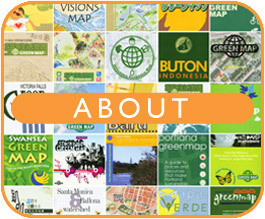
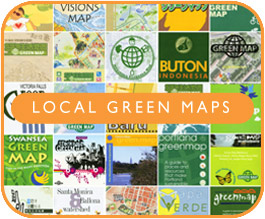
Moving back to an old version of the front page style and images

Changed region(s): [[0.1208, 0.4384, 0.8755, 0.5479]]

diff --git a/index.css b/index.css
@@ -23,9 +23,10 @@ margin: 0 0 0 0;
 /* HEADER */ 
 	
 #top {
+	background-image:url("img2/ie_top.png");
 	background-repeat: no-repeat;
 	padding-bottom: 30px;
-  	margin: 0 0 0 44px;
+  	margin: 0 0 0 30px;
   	height: 100px;
   	width: 100%;
 }	
@@ -64,7 +65,7 @@ div.gm {
   height: 220px;
   width: 264px;
   float: left;
-  background:url("img2/ogm_off.jpg") center top no-repeat;
+  background:url("img2/gm_off.jpg") center top no-repeat;
   padding-top: -5px;
   padding-bottom: 0px;
   padding-left: 0px;
@@ -77,7 +78,7 @@ div.gm:hover {
   height: 220px;
   width: 264px;
   padding-right: 0px;
-  background:url("img2/ogm_on.jpg") no-repeat center top;
+  background:url("img2/gm_on.jpg") no-repeat center top;
   text-decoration: none;
 }
 
@@ -113,7 +114,7 @@ div.ogm {
   height: 220px;
   width: 264px;
   float: none;
-  background:url("img2/gm_off.jpg") center top no-repeat;
+  background:url("img2/ogm_off.png") center top no-repeat;
   padding-bottom: 0px;
   padding-left: 0px;
 }
@@ -125,7 +126,7 @@ div.ogm:hover {
   height: 220px;
   width: 264px;
   padding-right: 0px;
-  background:url("img2/gm_on.jpg") no-repeat center top;
+  background:url("img2/ogm_on.png") no-repeat center top;
   text-decoration: none;
 }
 
